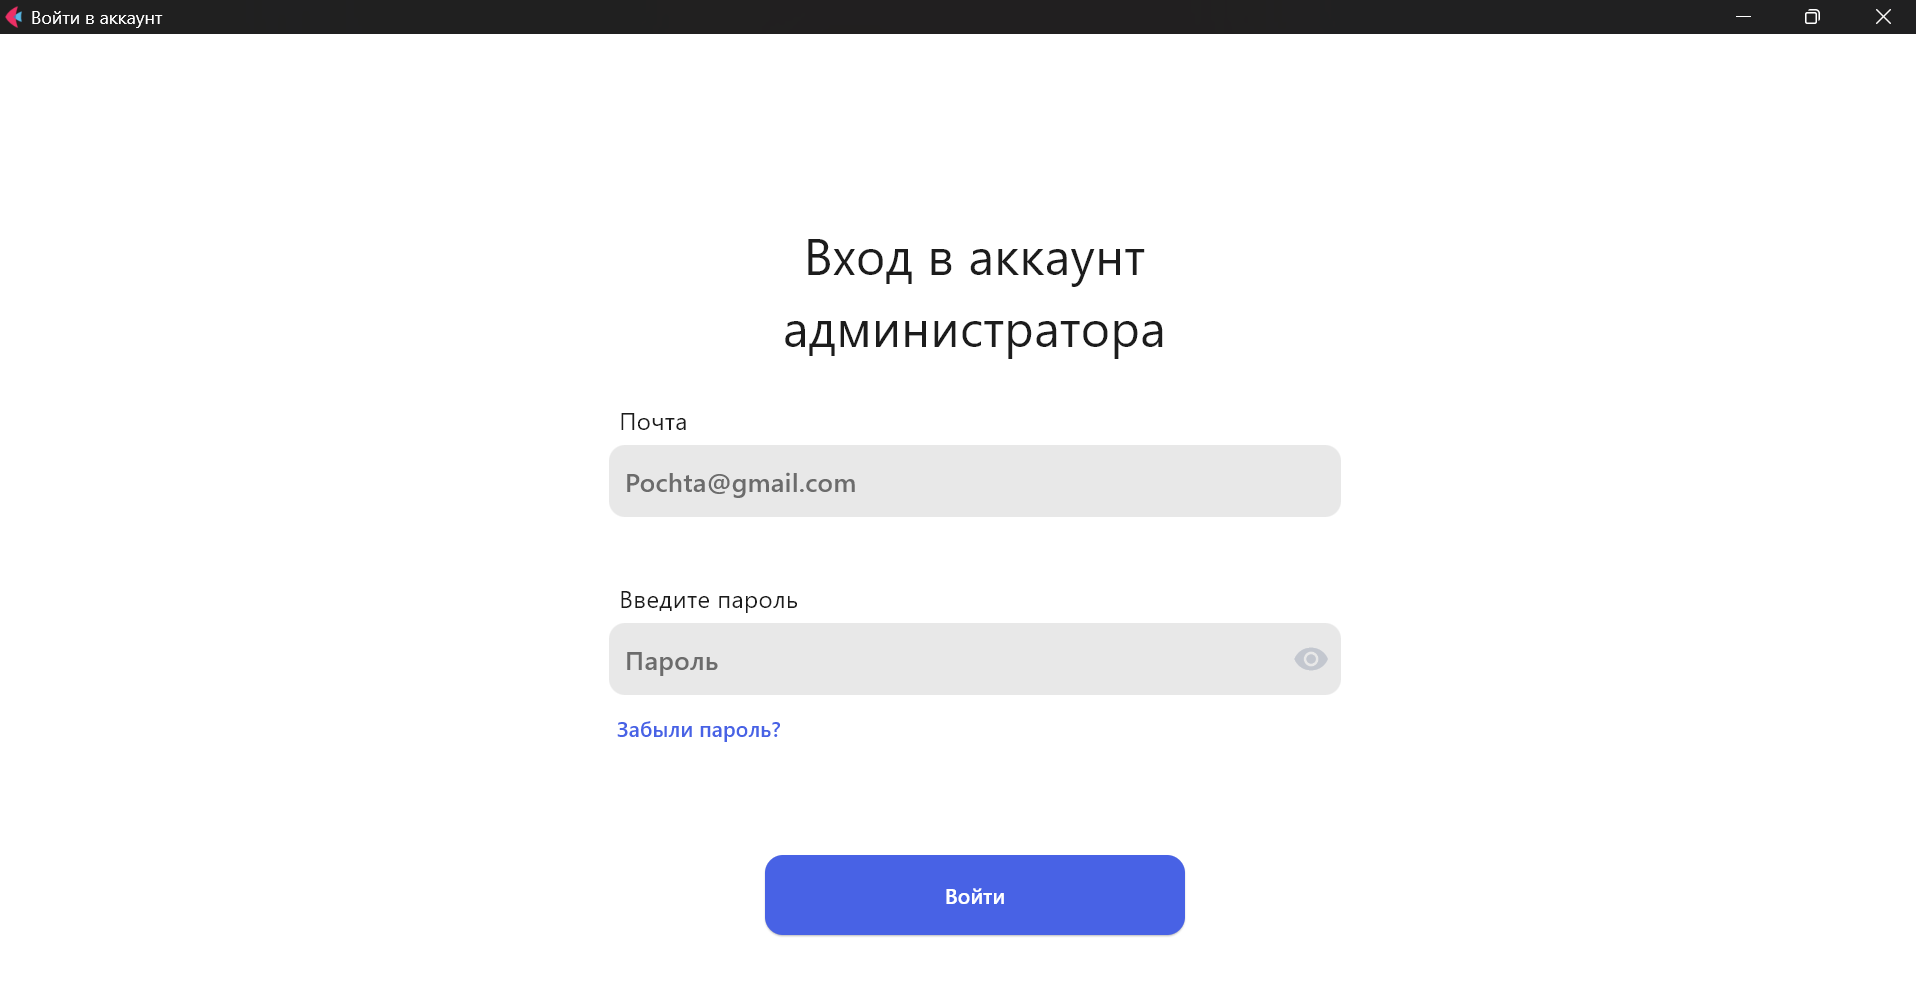
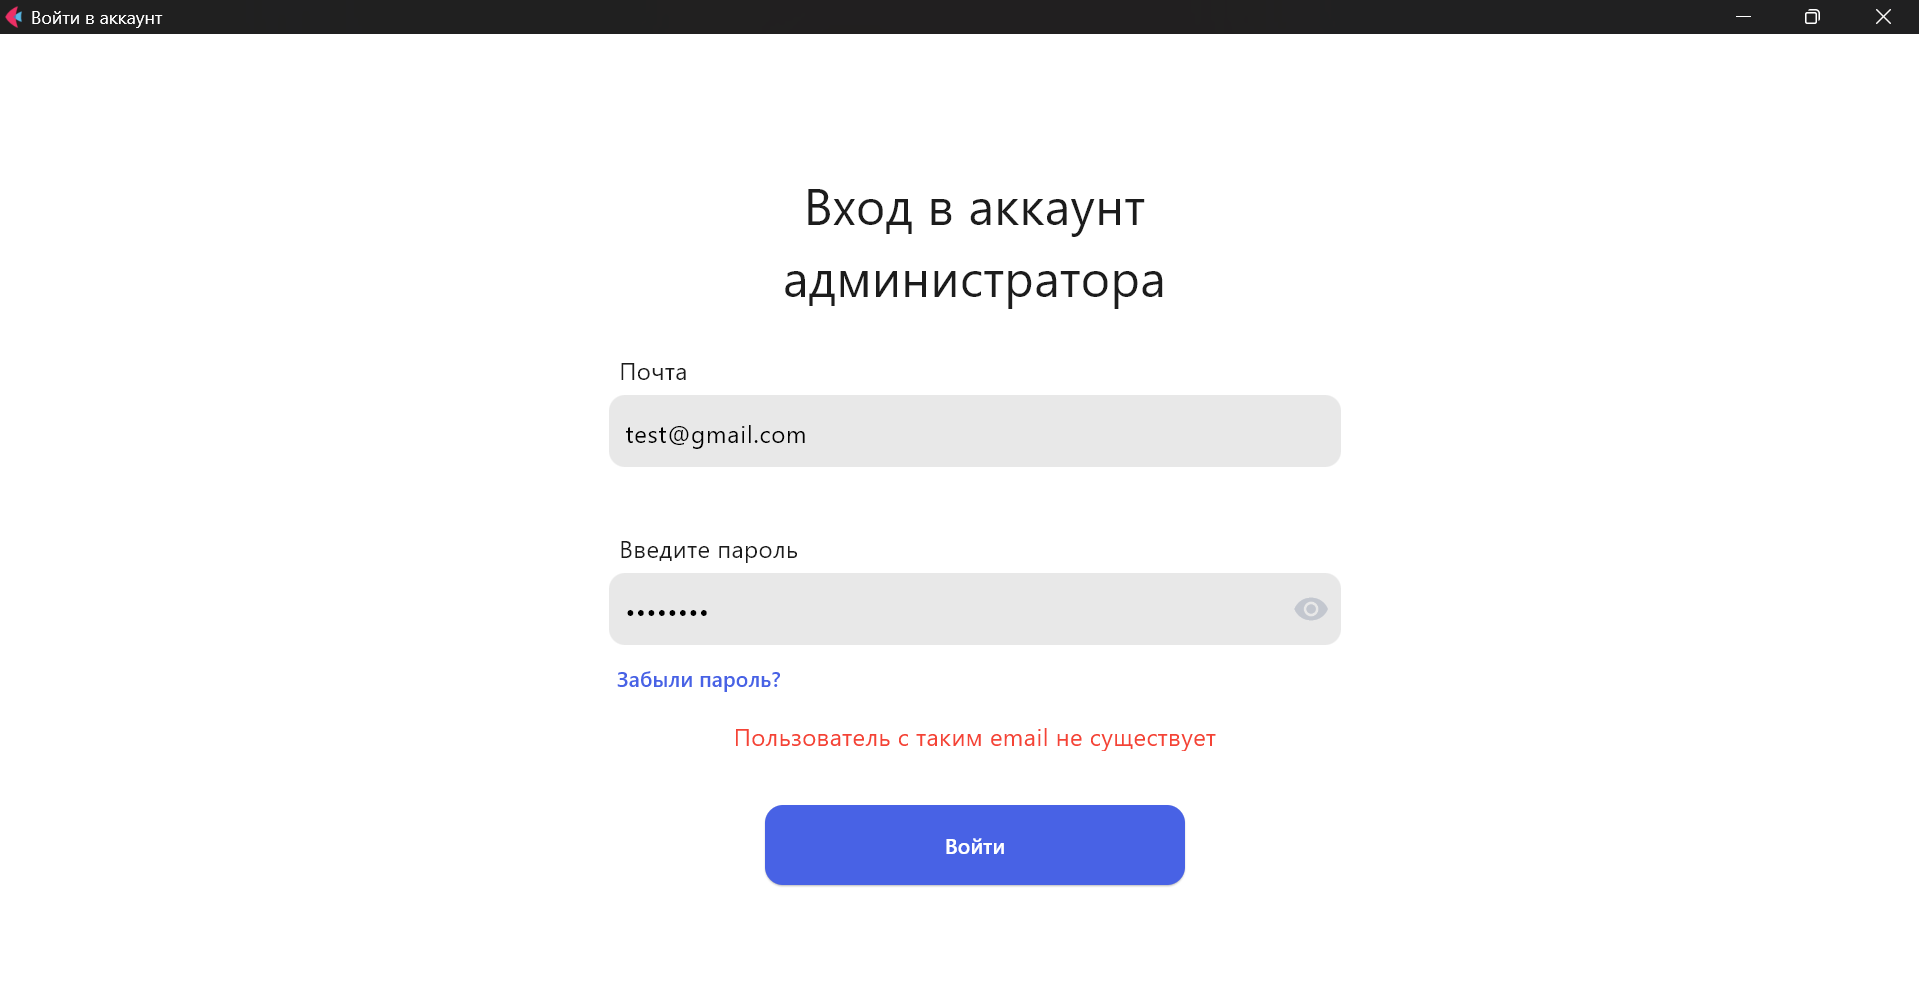
feat: add error labels

diff --git a/AdminsProject/src/sign_in_page.py b/AdminsProject/src/sign_in_page.py
@@ -1,4 +1,11 @@
-from . import ft, dp, send_login_request, SCREEN_SIZE
+from . import (
+    ft,
+    Optional,
+    dp,
+    send_login_request,
+    SCREEN_SIZE,
+    errors,
+)
 
 
 class SignInPage:
@@ -16,7 +23,7 @@ class SignInPage:
             size=dp(50),
             font_family="Inter",
             text_align=ft.TextAlign.CENTER,
-            top=dp(194) - dp(50) / 2,
+            top=dp(144) - dp(50) / 2,
             left=dp(745),
             width=dp(429),
             height=dp(110) + dp(50) + dp(10),
@@ -31,7 +38,7 @@ class SignInPage:
             size=dp(24),
             font_family="Inter",
             text_align=ft.TextAlign.LEFT,
-            top=dp(354),
+            top=dp(304),
             left=dp(566) + dp(28) + dp(10),
             width=dp(732),
             height=dp(32),
@@ -55,7 +62,7 @@ class SignInPage:
                 multiline=False,
                 border_width=0,
             ),
-            top=dp(354) + dp(32) + dp(10),
+            top=dp(304) + dp(32) + dp(10),
             left=dp(566) + dp(28),
             width=dp(732),
             height=dp(80),
@@ -66,7 +73,7 @@ class SignInPage:
             size=dp(24),
             font_family="Inter",
             text_align=ft.TextAlign.LEFT,
-            top=dp(532),
+            top=dp(482),
             left=dp(566) + dp(28) + dp(10),
             width=dp(732),
             height=dp(32),
@@ -92,7 +99,7 @@ class SignInPage:
                 can_reveal_password=True,
                 border_width=0,
             ),
-            top=dp(532) + dp(32) + dp(10),
+            top=dp(482) + dp(32) + dp(10),
             left=dp(566) + dp(28),
         )
 
@@ -100,7 +107,7 @@ class SignInPage:
             text="Забыли пароль?",
             width=dp(200),
             height=dp(30),
-            top=dp(532) + dp(32) + dp(100),
+            top=dp(482) + dp(32) + dp(100),
             left=dp(566) + dp(28) - dp(10),
             style=ft.ButtonStyle(
                 color="#4862E5",
@@ -109,11 +116,23 @@ class SignInPage:
             on_click=self.to_recovery,
         )
 
+        self.error_label = ft.Text(
+            value=" ",
+            size=dp(24),
+            font_family="Inter",
+            text_align=ft.TextAlign.CENTER,
+            top=dp(670),
+            left=dp(566) + dp(28),
+            width=dp(732),
+            height=dp(32),
+            color="#F44336",
+        )
+
         self.sign_in_button = ft.ElevatedButton(
             text="Войти",
             width=dp(420),
             height=dp(80),
-            top=dp(806),
+            top=dp(756),
             left=dp(750),
             style=ft.ButtonStyle(
                 shape=ft.RoundedRectangleBorder(radius=dp(18)),
@@ -137,24 +156,35 @@ class SignInPage:
 
         await self.process_login(email, password)
 
-    async def process_login(self, email, password) -> None:
+    async def process_login(self, email, password) -> Optional[Exception]:
         """Метод, сохраняющий токен пользователя в сессии."""
         try:
             response = await send_login_request(email, password)
             if response.get("access"):
-                access_token = response.get("access")
+                access_token = response.get("access", "#43A048")
 
                 if access_token:
                     self.page.session.set("access_token", access_token)
                     self.clear_fields()
                     await self.on_success(action=None)
-        except Exception:
-            return
+                else:
+                    raise ValueError("Invalid access token!")
+
+            else:
+                message = response[list(response.keys())[0]][0]
+                self.display_error(message)
+        except Exception as ex:
+            return ex
 
     def clear_fields(self) -> None:
         """Метод очистки полей ввода."""
         self.email_field.content.value = ""
         self.password_field.content.value = ""
+        self.page.update()
+
+    def display_error(self, message: str) -> None:
+        """Метод для отображения ошибок ввода данных."""
+        self.error_label.value = errors[message]
         self.page.update()
 
     async def display(self, action) -> None:
@@ -171,6 +201,7 @@ class SignInPage:
                             self.password_label,
                             self.password_field,
                             self.change_password_button,
+                            self.error_label,
                             self.sign_in_button,
                         ],
                         width=dp(SCREEN_SIZE[0]),

diff --git a/AdminsProject/src/utils.py b/AdminsProject/src/utils.py
@@ -4,6 +4,17 @@ SCREEN_SIZE = 1920, 1080
 
 BASE_URL = "http://127.0.0.1:8000"
 
+errors = {
+    "Invalid credentials.":
+        "Неверный пароль",
+
+    "Enter a valid email address.":
+        "Некорректный email",
+
+    "An account with this email does not exist.":
+        "Пользователь с таким email не существует",
+}
+
 
 def dp(value: int) -> float:
     """Функция для масштабирования элементов GUI."""
@@ -22,9 +33,4 @@ async def send_login_request(email, password):
     }
     async with aiohttp.ClientSession() as session:
         async with session.post(url, json=payload, headers=hdrs) as response:
-            if response.status == 200:
-                return await response.json()
-            error_message = await response.text()
-            raise ConnectionError(
-                f"Ошибка входа: {error_message}",
-            )
+            return await response.json()

diff --git a/AdminsProject/src/__init__.py b/AdminsProject/src/__init__.py
@@ -1,10 +1,13 @@
 import flet as ft
+from typing import Optional
 
 from .utils import (
     dp,
     send_login_request,
     SCREEN_SIZE,
+    errors,
 )
+
 from .welcome_page import WelcomePage
 from .sign_in_page import SignInPage
 from .profile_page import ProfilePage
@@ -15,8 +18,10 @@ __all__ = [
     'dp',
     'send_login_request',
     'SCREEN_SIZE',
+    'errors',
     'WelcomePage',
     'SignInPage',
     'ProfilePage',
     'PasswordRecoveryPage',
+    'Optional',
 ]
